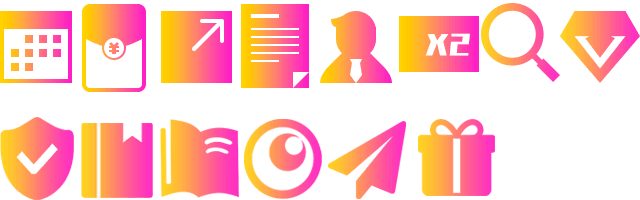
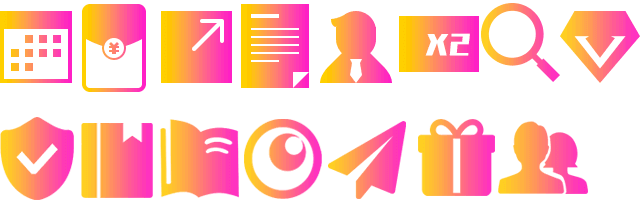
新手教程

Changed region(s): [[0.7812, 0.6, 0.9375, 0.99]]

diff --git a/km1.3/assets/school_invite_0.html b/km1.3/assets/school_invite_0.html
@@ -90,6 +90,11 @@
         <img src="image/school_2.png" class="title" />
         <div class="content">
             <div class="box">
+                <i class="icon icon_team"></i>
+                <h2>什么是团队 <a href="http://a.app.qq.com/o/simple.jsp?pkgname=com.kuaima.browser" class="download_link">下载最新版本</a></h2>
+                <p>团队即邀请你志同道合的报友加入团队一起完成团队任务，获得更多的分红金币，轻轻松松再挣一笔。</p>
+            </div>
+            <div class="box">
                 <i class="icon icon8"></i>
                 <h2>什么值得看</h2>
                 <p>申请值得看板块采集权限，采集内容被大家阅读及点赞会不同机率的获得大量金币奖励。</p>

diff --git a/km1.3/assets/less/school_0.less b/km1.3/assets/less/school_0.less
@@ -43,6 +43,7 @@ body{background-color: @c_red;}
 
 		.icon_daily_ts{ background-position: -148px -52px;}
 		.icon_daily_fl{ background-position: -188px -52px;}
+		.icon_team{background-position: -225px -52px;}
 		h2{
 			line-height: 1;
 			font-weight: 500;

diff --git a/km1.3/assets/css/school_0.css b/km1.3/assets/css/school_0.css
@@ -494,6 +494,9 @@ body {
 .content .box .icon_daily_fl {
   background-position: -188px -52px;
 }
+.content .box .icon_team {
+  background-position: -225px -52px;
+}
 .content .box h2 {
   line-height: 1;
   font-weight: 500;
